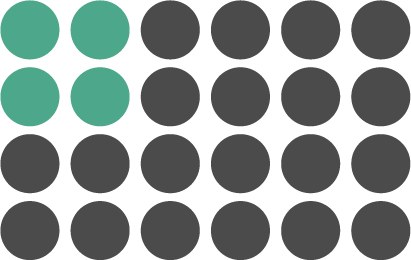
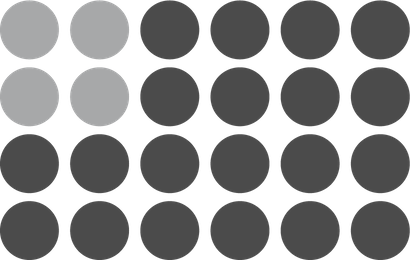
update platemap active well PNGs and changelog :

diff --git a/CHANGELOG.rst b/CHANGELOG.rst
@@ -10,6 +10,9 @@ Added:
 - Check limiting the length of recording directory + file prefix path
 - Ability to change trigger mode inside the Advanced Settings menu
 
+Fixed:
+^^^^^^
+- Platemap active well indicator PNGs are only displayed in gray
 
 0.1.36 (2023-07-31)
 -------------------
